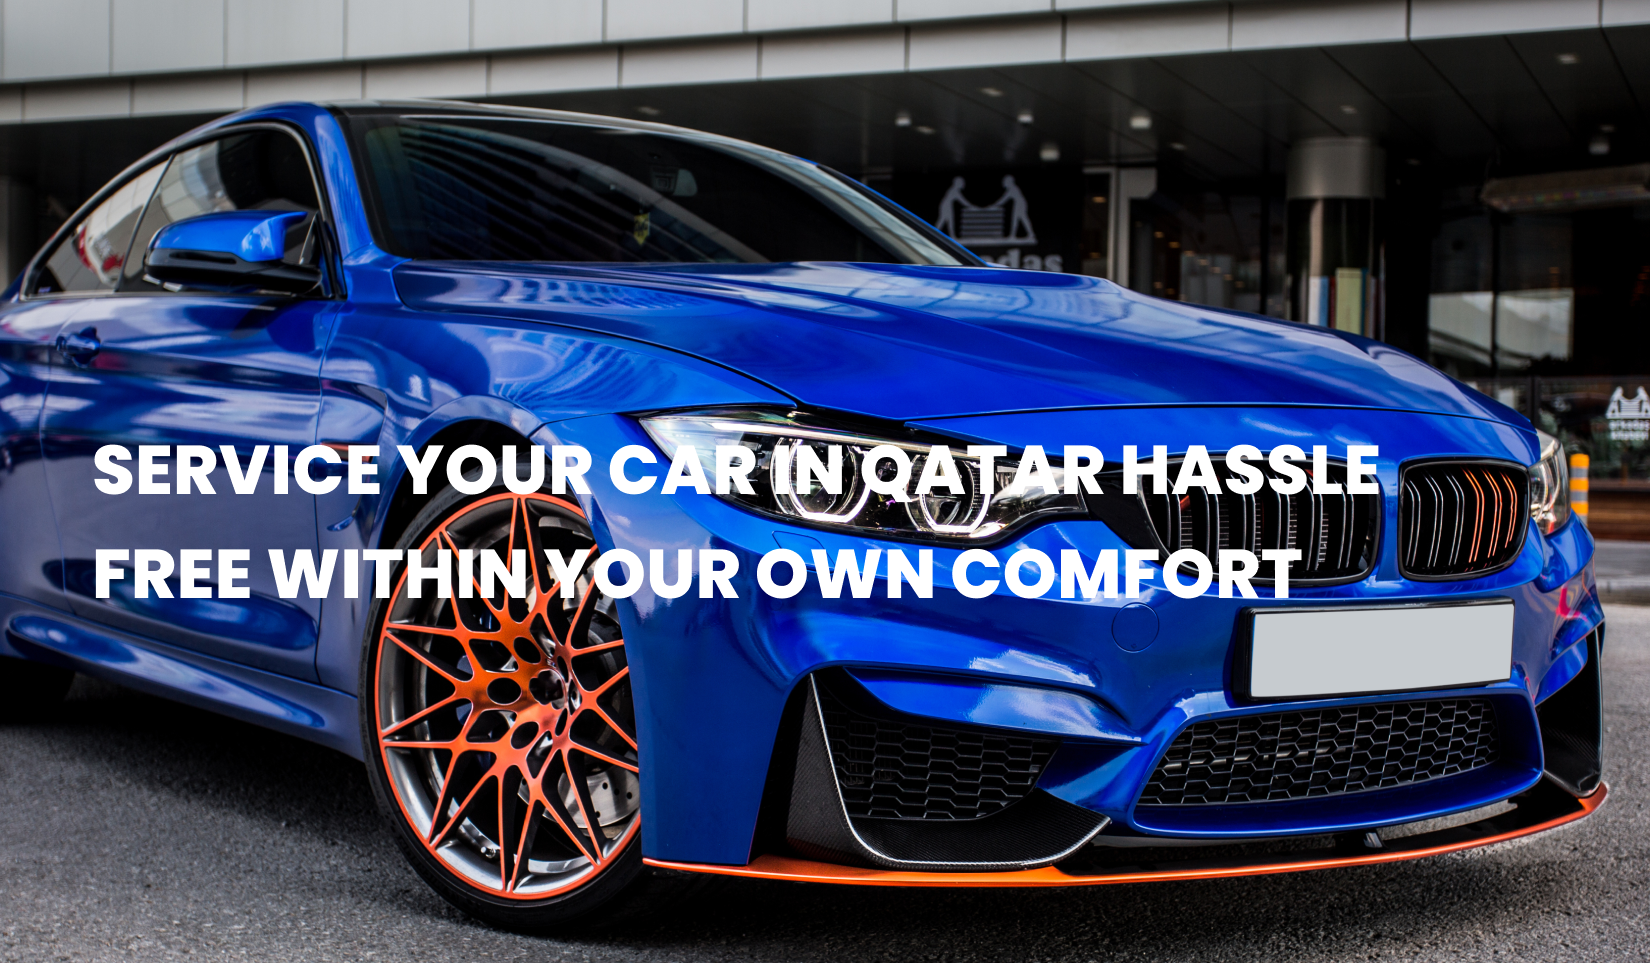
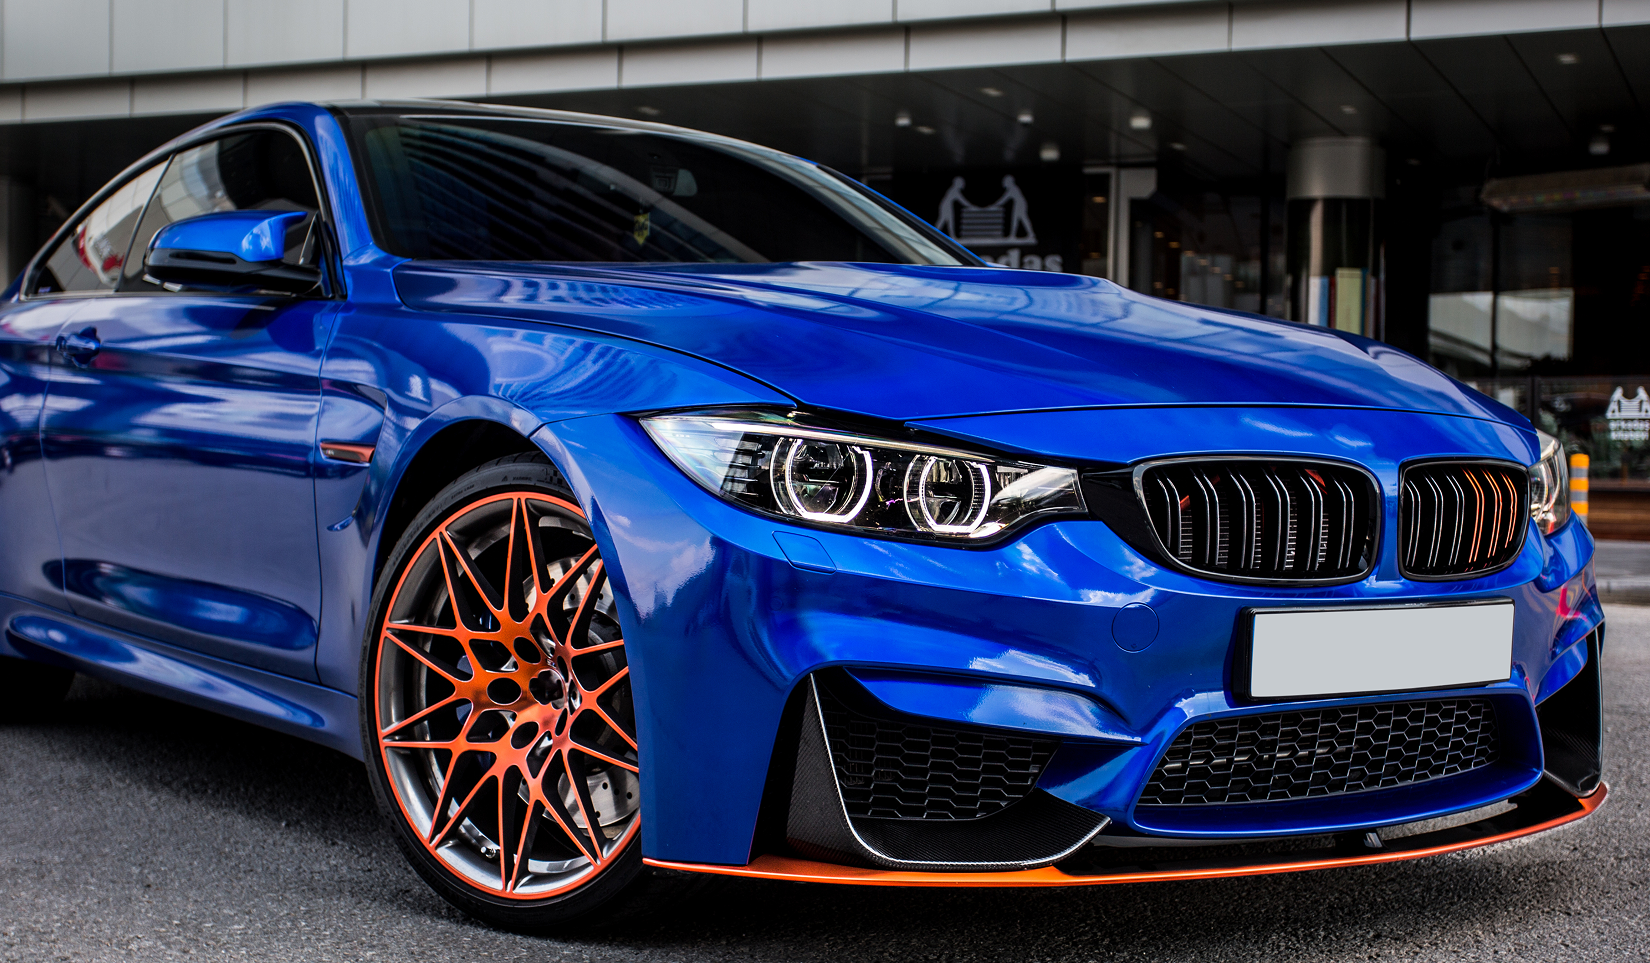
garage slider dynamic

Changed region(s): [[0.0618, 0.4361, 0.8345, 0.5296], [0.0309, 0.5607, 0.8036, 0.6231], [0.8655, 0.4984, 0.9273, 0.5607]]

diff --git a/client/src/components/layout/GarageSlider.tsx b/client/src/components/layout/GarageSlider.tsx
@@ -1,0 +1,81 @@
+import React from "react";
+import { useQuery } from "@tanstack/react-query";
+import { HeroSlider } from "@shared/schema";
+import { HeartPulse } from "lucide-react";
+
+const GarageSliderSection: React.FC = () => {
+  const {
+    data: sliderData = [],
+    isLoading,
+    refetch,
+  } = useQuery<HeroSlider[]>({
+    queryKey: ["hero-sliders"],
+    queryFn: async () => {
+      const res = await fetch("/api/hero-sliders");
+      if (!res.ok) throw new Error("Failed to fetch hero sliders");
+      return res.json();
+    },
+  });
+
+  const hero =
+    sliderData.find((s) => s.is_active && s.slide_type === "garage") || null;
+
+  return (
+    <section className="relative w-full">
+      <a href={hero?.button_url} className="block">
+        {isLoading ? (
+          <img
+            src="/src/assets/banner.png"
+            alt="Hero Banner"
+            className="w-full h-auto object-cover"
+          />
+        ) : (
+          <img
+            src={hero?.image_url}
+            alt={hero?.title}
+            className="w-full h-auto object-cover"
+          />
+        )}
+
+        {/* Overlay Text */}
+        <div className="absolute inset-0 flex items-center justify-center text-center px-4">
+          <h2 className="text-white font-bold text-3xl md:text-4xl">
+            {hero?.subtitle || hero?.subtitle_ar}
+          </h2>
+        </div>
+
+        <div className="absolute bottom-5 right-5 md:bottom-10 md:right-10 text-center text-white max-w-xs md:max-w-md">
+          <p className="text-black text-sm md:text-base font-semibold">
+            DOWNLOAD THE APP NOW
+          </p>
+          <div className="flex justify-end gap-2">
+            <a
+              href="https://apps.apple.com"
+              target="_blank"
+              rel="noopener noreferrer"
+            >
+              <img
+                src="https://developer.apple.com/assets/elements/badges/download-on-the-app-store.svg"
+                alt="App Store"
+                className="h-10 md:h-12"
+              />
+            </a>
+            <a
+              href="https://play.google.com"
+              target="_blank"
+              rel="noopener noreferrer"
+            >
+              <img
+                src="https://freelogopng.com/images/all_img/1664287128google-play-store-logo-png.png"
+                alt="Google Play"
+                className="h-10 md:h-12"
+              />
+            </a>
+          </div>
+        </div>
+      </a>
+    </section>
+  );
+};
+
+export default GarageSliderSection;

diff --git a/client/src/pages/GarageHome.tsx b/client/src/pages/GarageHome.tsx
@@ -8,6 +8,7 @@ import SearchSection from "@/components/layout/SearchSection";
 import FeaturedGaragesSection from "@/components/layout/FeaturedGarageSection";
 import GaragesCarousel from "@/components/layout/GaragesCarousel";
 import BrowseServices from "./BrowseServices";
+import GarageSliderSection from "@/components/layout/GarageSlider";
 
 
 const GarageHome = () => {
@@ -16,30 +17,7 @@ const GarageHome = () => {
   return (
     <div>
       {/* Hero Section */}
-      <section className="relative w-full">
-        <img 
-          src="/src/assets/garage-banner.png" 
-          alt="Hero Banner" 
-          className="w-full h-auto object-cover"
-        />
-
-
-
-        <div className="absolute bottom-5 right-5 md:bottom-10 md:right-10 text-center md:text-center text-white max-w-xs md:max-w-md">
-          <p className="text-black text-sm md:text-base font-semibold">
-            DOWNLOAD THE APP NOW
-          </p>
-          <div className="flex justify-end md:justify-end gap-2">
-            <a href="https://apps.apple.com" target="_blank">
-              <img src="https://developer.apple.com/assets/elements/badges/download-on-the-app-store.svg" alt="App Store" className="h-10 md:h-12" />
-            </a>
-            <a href="https://play.google.com" target="_blank">
-              <img src="https://freelogopng.com/images/all_img/1664287128google-play-store-logo-png.png" alt="Google Play" className="h-10 md:h-12" />
-            </a>
-          </div>
-        </div>
-      </section>
-
+      <GarageSliderSection />
      
 
       {/* Search Form */}
